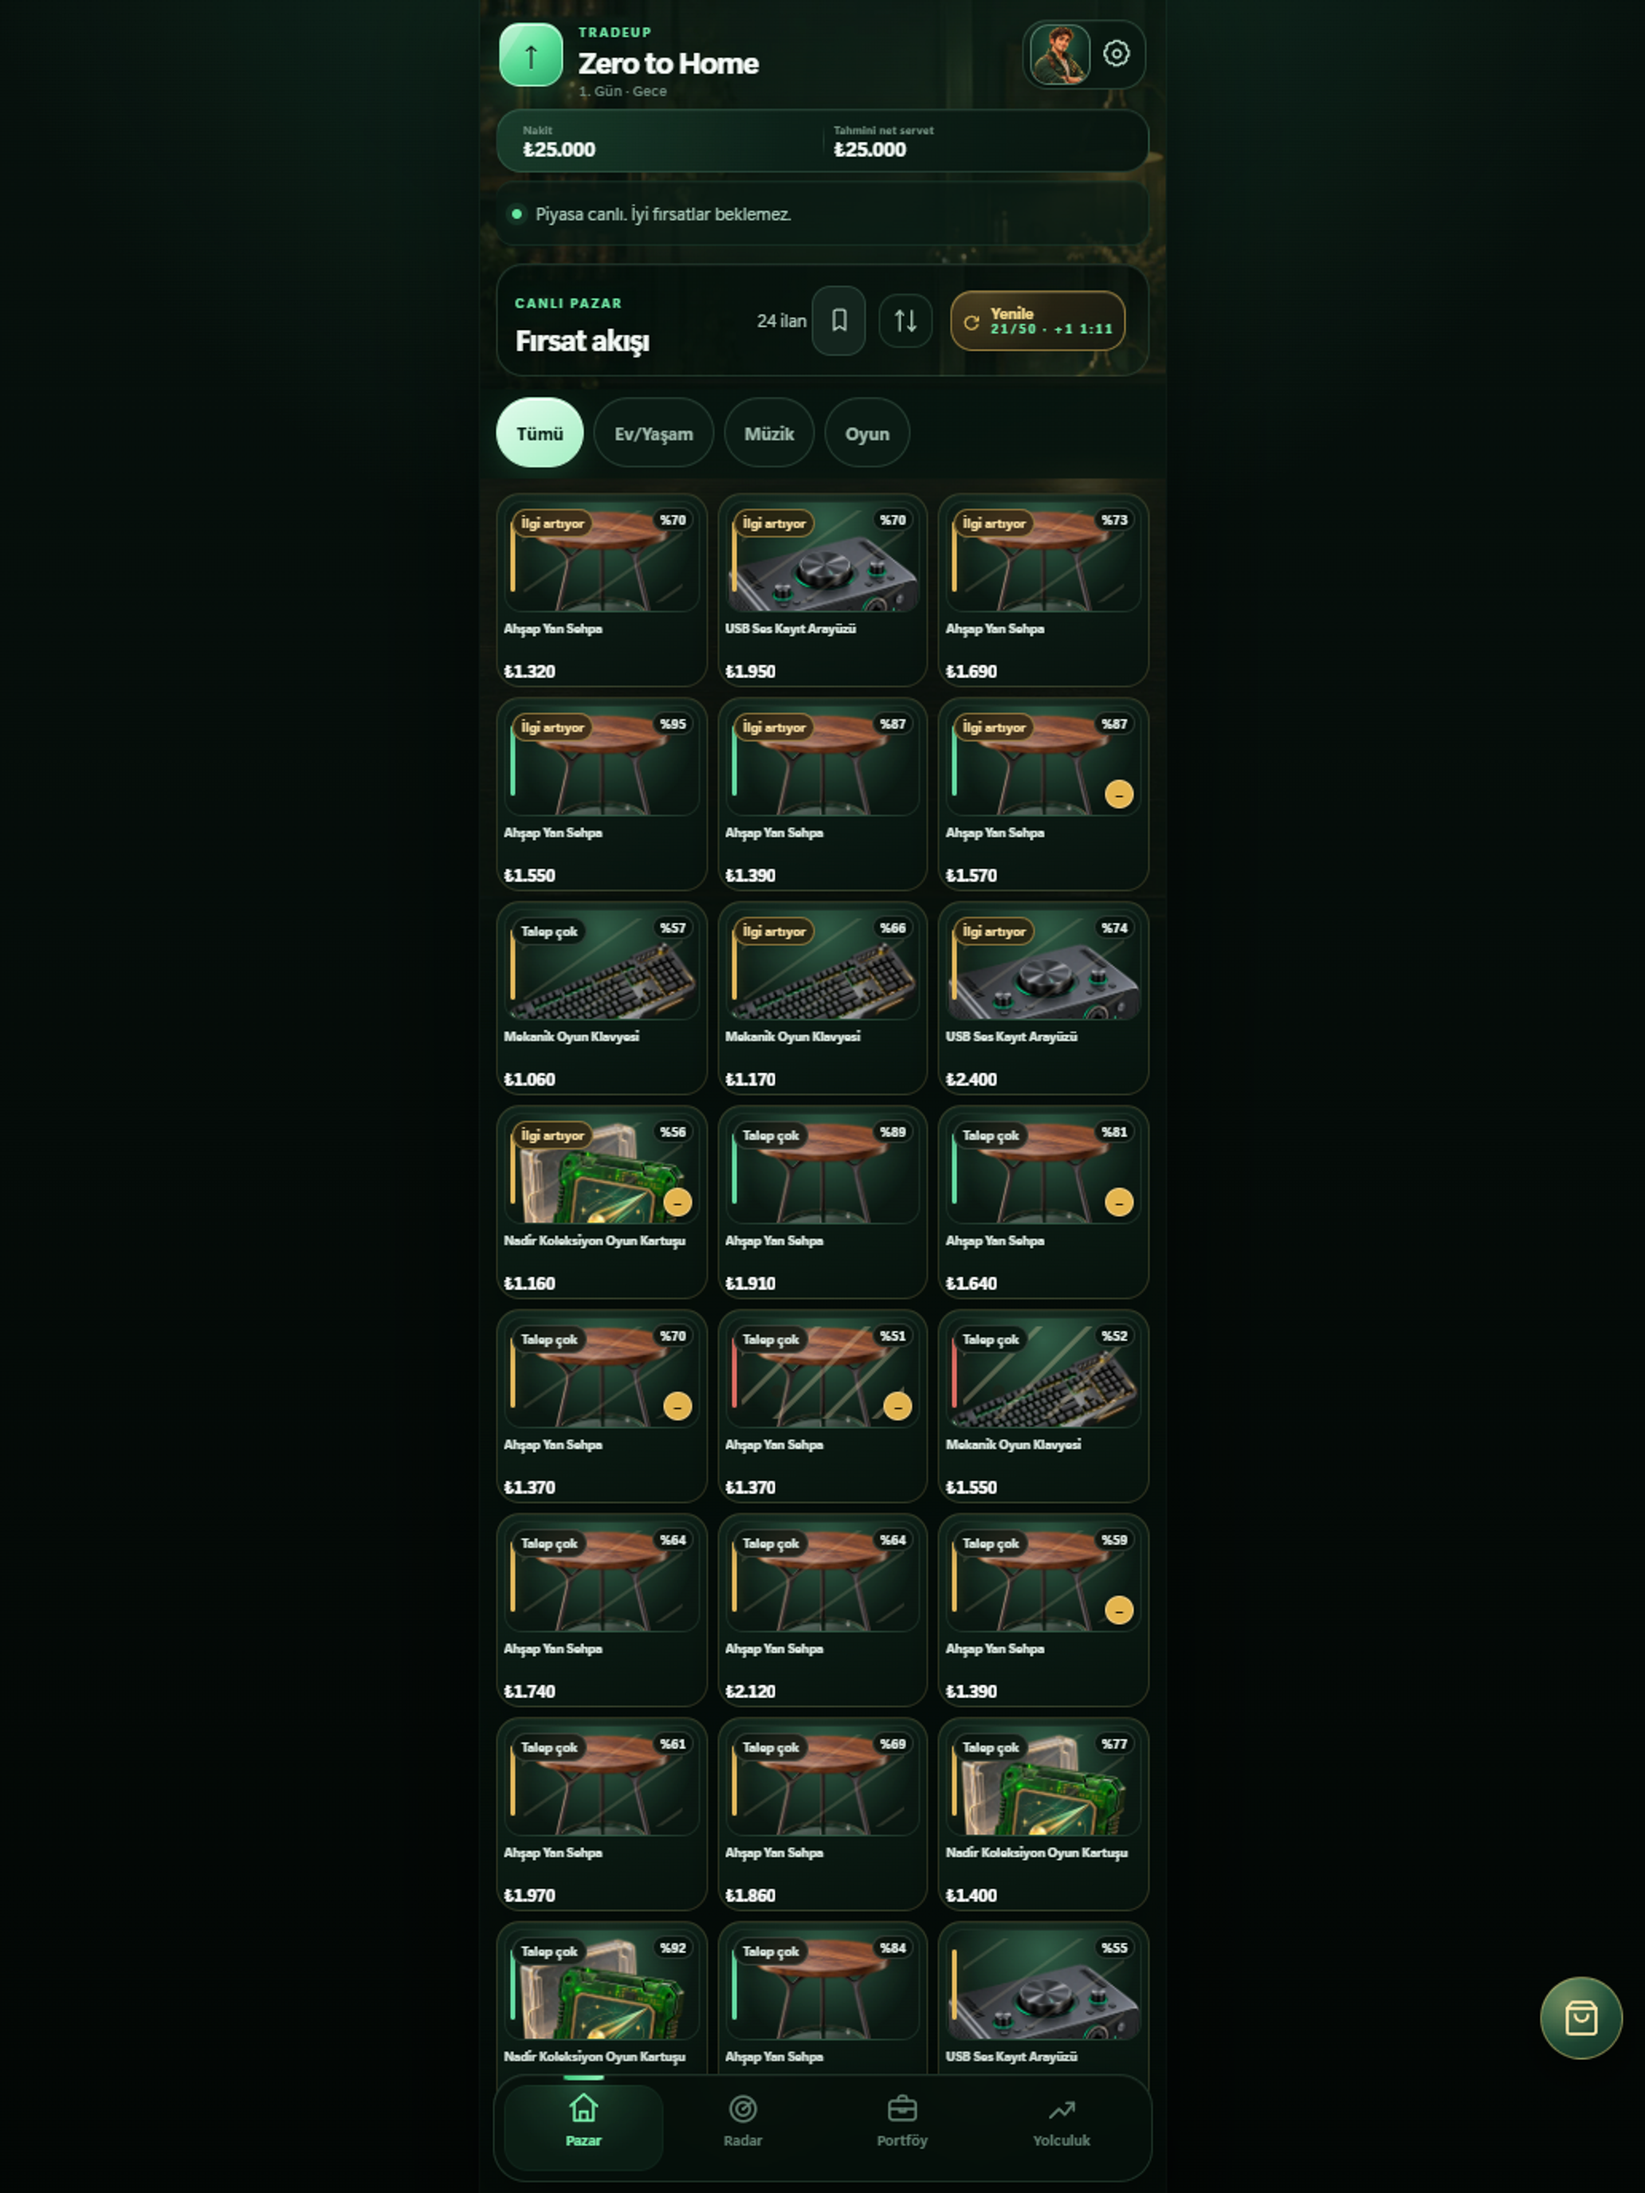
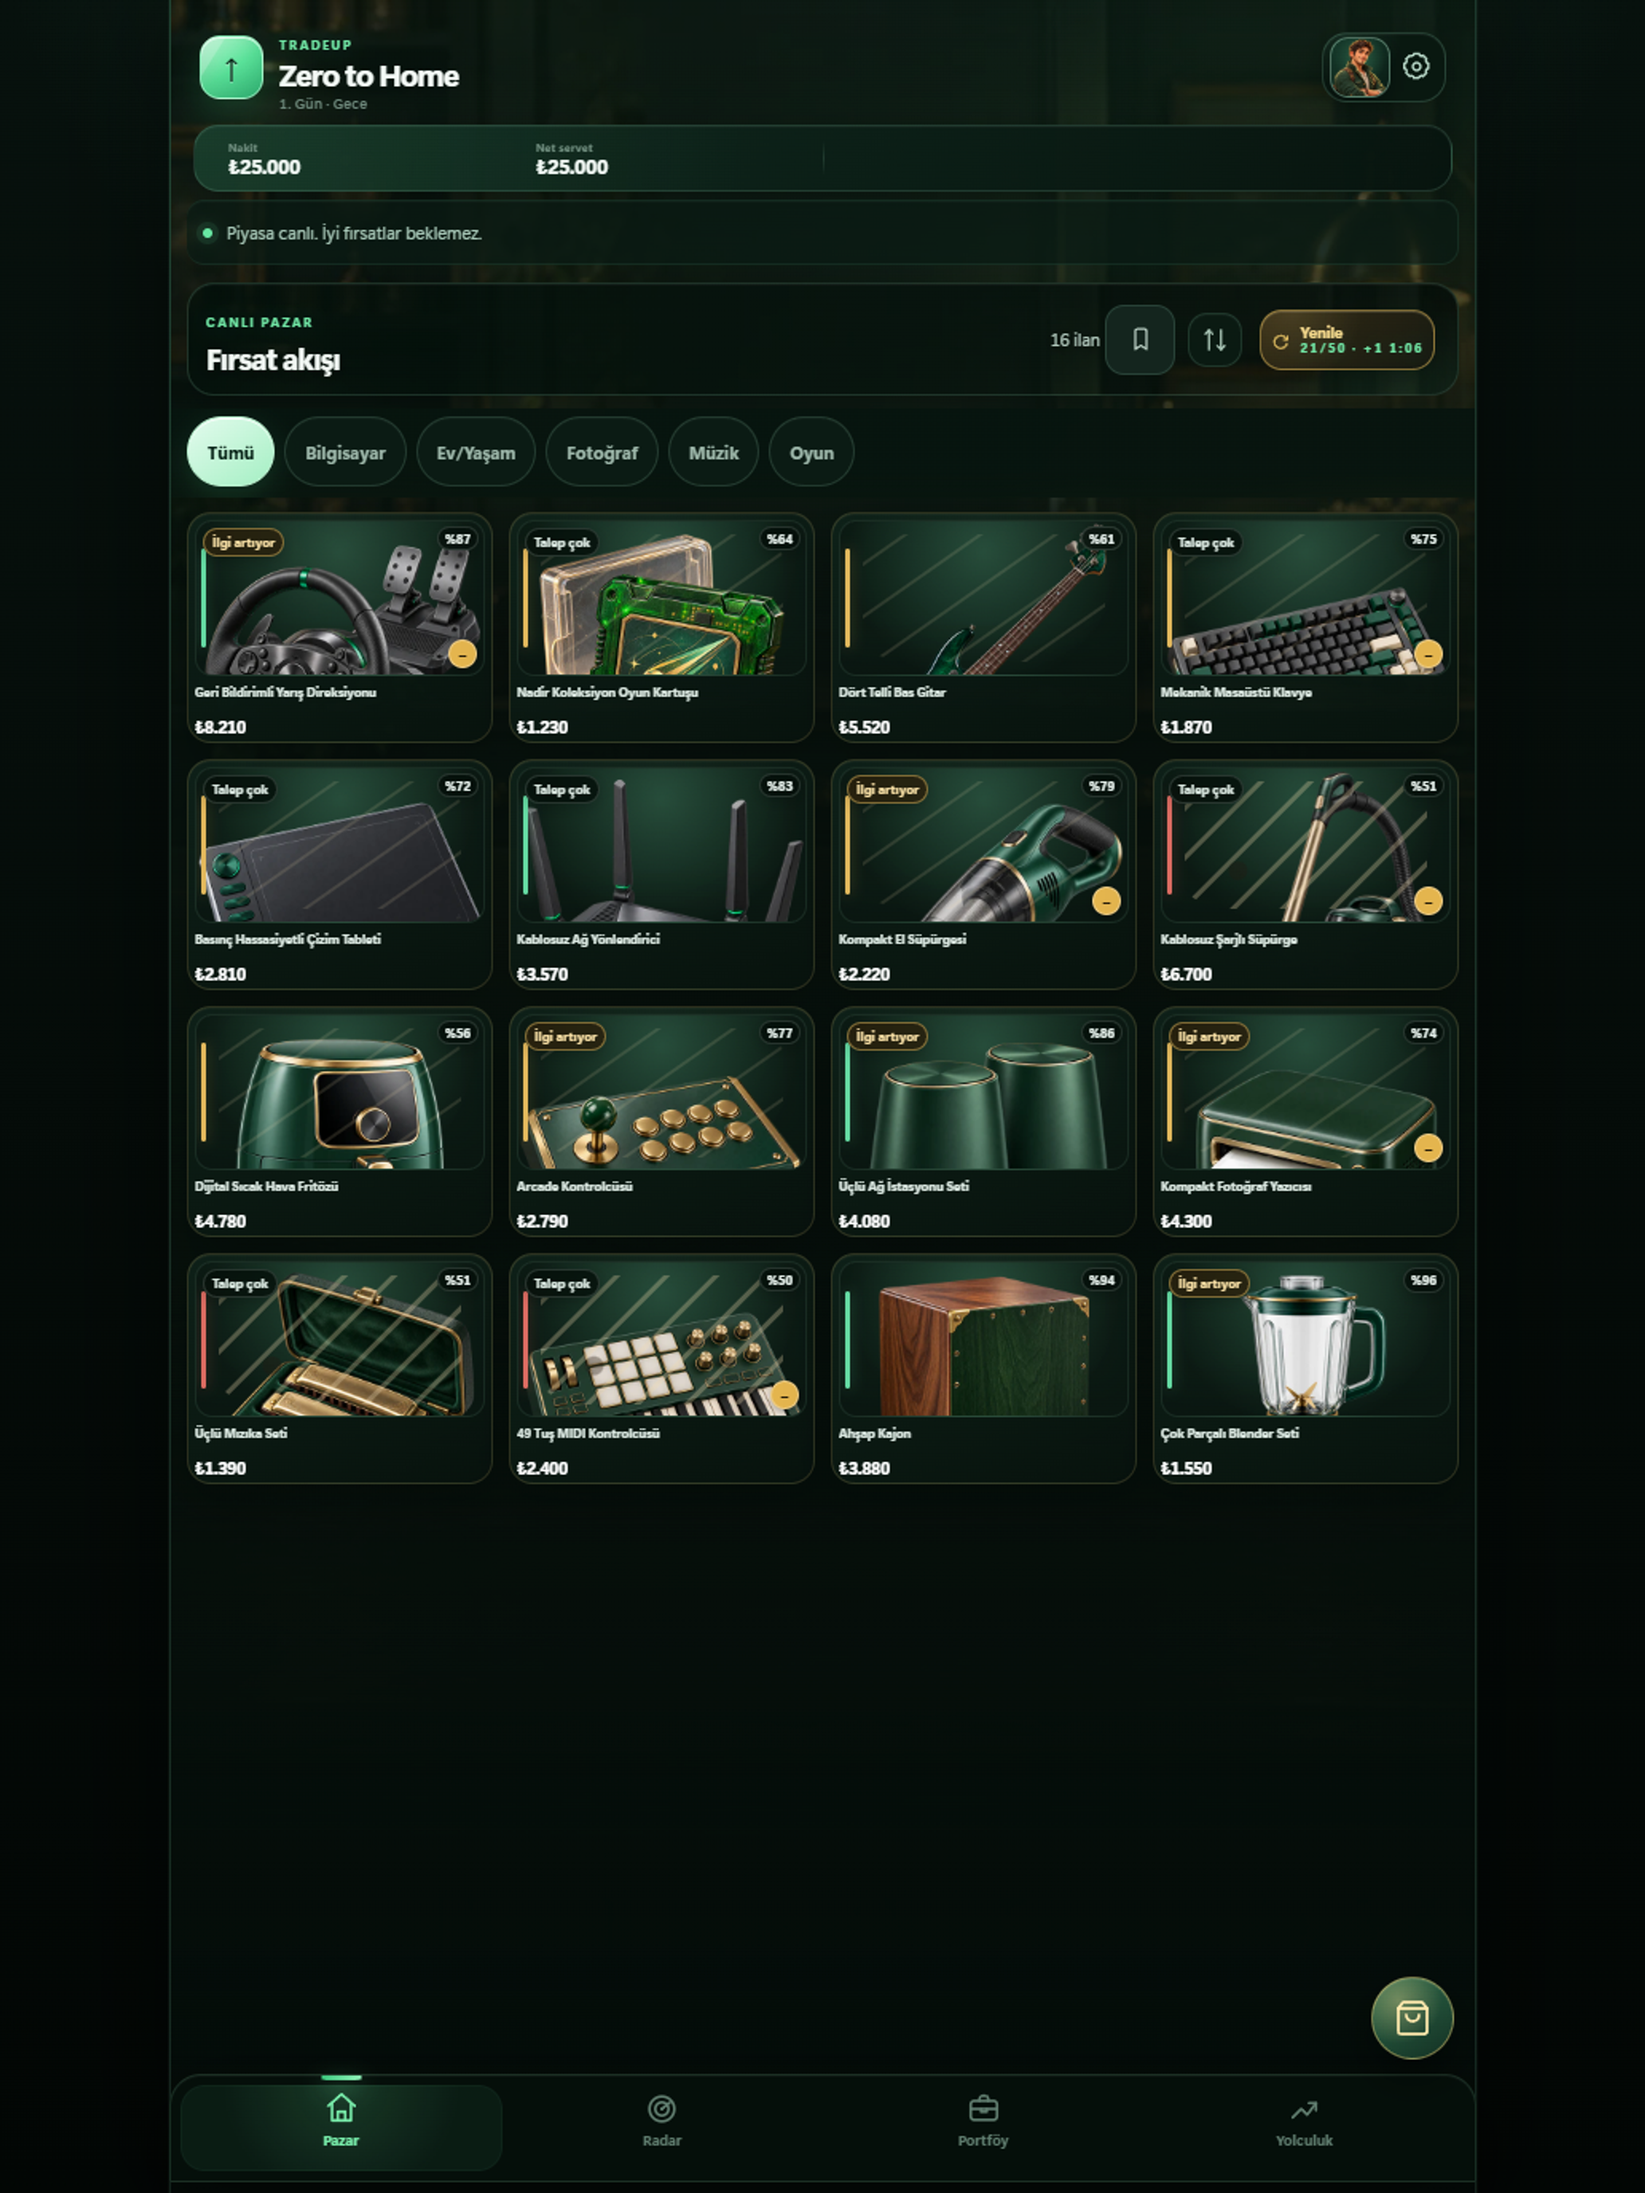
Polish market artwork scale and refresh App Store screenshots

diff --git a/e2e/storeAssets.e2e.ts b/e2e/storeAssets.e2e.ts
@@ -1,9 +1,9 @@
 import { expect, test, type Page } from "@playwright/test";
-import { mkdir } from "node:fs/promises";
+import { mkdir, writeFile } from "node:fs/promises";
 import path from "node:path";
 import sharp from "sharp";
 import { HOME_OPTIONS } from "../src/content/homes";
-import { initialState, validateState } from "../src/game";
+import { initialState, market as createMarket, validateState } from "../src/game";
 import type { GameState } from "../src/domain/models";
 import { completeFirstLaunch } from "./helpers";
 
@@ -13,6 +13,19 @@ test.skip(
 );
 
 const outputDirectory = path.resolve("store-assets/ios/iphone-6.5");
+
+async function writeGeneratedAsset(targetPath: string, image: Buffer) {
+  for (let attempt = 0; attempt < 5; attempt += 1) {
+    try {
+      await writeFile(targetPath, image);
+      return;
+    } catch (error) {
+      if (attempt === 4) throw error;
+      // Windows scanners occasionally hold an existing screenshot briefly.
+      await new Promise((resolve) => setTimeout(resolve, 150 * (attempt + 1)));
+    }
+  }
+}
 
 async function persistGame(page: Page, state: GameState) {
   await page.evaluate(async (game) => {
@@ -32,14 +45,19 @@ async function persistGame(page: Page, state: GameState) {
 }
 
 async function capture(page: Page, name: string, temporaryPath: string) {
+  await page.evaluate(() => {
+    window.scrollTo(0, 0);
+    document.querySelector("main")?.scrollTo(0, 0);
+  });
   await page.screenshot({ path: temporaryPath, animations: "disabled" });
   const targetPath = path.join(outputDirectory, `${name}.png`);
-  await sharp(temporaryPath)
+  const image = await sharp(temporaryPath)
     .resize(1284, 2778, { fit: "fill" })
     .png({ compressionLevel: 9 })
-    .toFile(targetPath);
-  const metadata = await sharp(targetPath).metadata();
+    .toBuffer();
+  const metadata = await sharp(image).metadata();
   expect([metadata.width, metadata.height]).toEqual([1284, 2778]);
+  await writeGeneratedAsset(targetPath, image);
 }
 
 test("generate App Store screenshots for TradeUp", async ({
@@ -75,6 +93,19 @@ test("generate App Store screenshots for TradeUp", async ({
   };
   market.monetization.marketScanCredits = 21;
   market.monetization.marketScanRefillAnchorWallMs = now.getTime();
+  // Capture a reachable later-session market with varied arrivals, not the
+  // same initial cohort repeated across most of the product page.
+  const seenFamilies = new Set<string>();
+  market.listings = Array.from({ length: 48 }, (_, index) =>
+    createMarket(market.seed + index * 37, market.cashMinor, index, 0, 4),
+  )
+    .flat()
+    .filter((listing) => {
+      if (seenFamilies.has(listing.familyId)) return false;
+      seenFamilies.add(listing.familyId);
+      return true;
+    })
+    .slice(0, 16);
   await persistGame(page, market);
   await page.reload();
   await expect(
@@ -86,13 +117,14 @@ test("generate App Store screenshots for TradeUp", async ({
   await mkdir(path.resolve("store-assets/ios/ipad-13"), { recursive: true });
   const iPadSource = testInfo.outputPath("ipad-market.png");
   await page.screenshot({ path: iPadSource, animations: "disabled" });
-  await sharp(iPadSource)
+  const iPadImage = await sharp(iPadSource)
     .resize(2064, 2752, { fit: "fill" })
     .png({ compressionLevel: 9 })
-    .toFile(path.resolve("store-assets/ios/ipad-13/01-canli-pazar.png"));
+    .toBuffer();
+  await writeGeneratedAsset(path.resolve("store-assets/ios/ipad-13/01-canli-pazar.png"), iPadImage);
   await page.setViewportSize({ width: 428, height: 926 });
 
-  await page.getByRole("button", { name: "Satın Almalar ve Görünüm" }).click();
+  await page.getByRole("button", { name: "Satın almalar & görünüm" }).click();
   await expect(page.getByText("TradeUp Premium", { exact: false })).toBeVisible();
   await capture(page, "06-premium-inceleme", testInfo.outputPath("premium.png"));
   await page.getByRole("button", { name: "Kapat", exact: true }).click();
@@ -104,11 +136,13 @@ test("generate App Store screenshots for TradeUp", async ({
   await capture(page, "03-urunu-incele", testInfo.outputPath("detail.png"));
   await page
     .getByRole("group", { name: "Satın alma adımları" })
-    .getByRole("button", { name: /^Hemen al/ })
+    .getByRole("button", { name: /^Hemen Satın Al/ })
     .click();
   await expect(
     page.getByRole("tab", { name: "Envanter", exact: true }),
   ).toHaveAttribute("aria-selected", "true");
+  await page.getByRole("button", { name: "Vitrine Ekle", exact: true }).click();
+  await expect(page.getByText("1 / 3")).toBeVisible();
   await capture(
     page,
     "04-portfoyunu-buyut",

diff --git a/e2e/marketGrid.e2e.ts b/e2e/marketGrid.e2e.ts
@@ -91,6 +91,7 @@ for (const width of [320, 430]) {
       .first()
       .locator(".product-art")
       .boundingBox();
+    expect(firstVisual?.height).toBeGreaterThanOrEqual(68);
     const firstSignals = await cards
       .first()
       .locator(".market-condition-signal")

diff --git a/src/App.css b/src/App.css
@@ -1004,7 +1004,7 @@ main {
 }
 .market-grid .product-art {
   width: 100%;
-  height: clamp(58px, 17vw, 70px);
+  height: clamp(68px, 20vw, 82px);
   aspect-ratio: auto;
   flex: 0 0 auto;
   border-radius: 9px;

diff --git a/docs/IOS_RELEASE_READINESS.md b/docs/IOS_RELEASE_READINESS.md
@@ -2,13 +2,15 @@
 
 ## 27 Eylül 2026 güncel durum
 
-- Yerel kalite kapısı: 384 birim testi, lint, production build ve tam Playwright taraması (37 başarılı, 1 isteğe bağlı görsel üretimi atlandı) geçti. Rehberli ilk satın alma akışını bekleyen eski testler, güncel serbest pazar ve 50 erken oyun tarama kuralına göre yenilendi.
+- Yerel kalite kapısı: 385 birim testi, lint, production build ve tam Playwright taraması (37 başarılı, 1 isteğe bağlı görsel üretimi atlandı) geçti. 320 ve 430 pikselde büyütülen ürün görselleriyle 3×3 pazar düzeni doğrulandı. Rehberli ilk satın alma akışını bekleyen eski testler, güncel serbest pazar ve 50 erken oyun tarama kuralına göre yenilendi.
 - App Store Connect'te iOS 1.0.1 **(35)** TestFlight build'i işlenmiş, **Ready to Submit** ve Betatest grubuna bağlı (3 testçi). Ancak mevcut reddedilmiş 1.0.1 dağıtım başvurusu hâlâ eski build **14**'e bağlı; 35 App Review'a gönderilmedi. Önceki red, iPad Air 11 inçte cihaz uyumluluğuydu; yeni build iPhone hedefli.
 - Altı GDD v2.2 kalıcı IAP kaydı mevcut. Premium **Ready for Review**, diğer beşi **Prepare for Submission**. ABD taban fiyatları tek tek doğrulandı: Premium $4.99; Reklamsız, Gece Pazarı ve Atölye $1.99; Ev Stilleri ve Canlı Avatarlar $2.99. Reklamsız ürününün Türkçe mağaza metni ayarlandı. Ev Stilleri ve Canlı Avatarlar ürünlerinin eksik 175 bölge erişimi de tamamlandı; Atölye ve Gece Pazarı zaten tüm bölgelerde. Beş yeni üründe inceleme ekran görüntüsü yok; gerçek TestFlight satın alma/kozmetik ekranlarından alınmış görseller olmadan incelemeye hazır sayılmıyorlar.
 - App Privacy etiketi, build 34 IPA içindeki Google Mobile Ads ve User Messaging Platform `PrivacyInfo.xcprivacy` bildirimleriyle karşılaştırılıp **7 veri türü** (yaklaşık konum, cihaz kimliği, ürün etkileşimi, reklam verisi, çökme, performans, diğer tanılama) olarak 27 Eylül'de Apple'da yayımlandı. Cihaz kimliği SDK bildirimi uyarınca takip kapsamındadır. Ancak build 34 `Info.plist` içinde ATT açıklaması yok; gerçek cihazdaki takip izni ve reklam veri akışı doğrulanmadan bu build App Review'a sunulmamalı.
 - Takip izni için iOS açıklaması ve ilk reklamdan önce izin durumu denetimi build 35'e girdi; izin akışı hata verirse reklam atlanır, oyun/satış engellenmez. IPA'da açıklama anahtarı doğrulandı. Gerçek cihazda izin ekranı, reklam iptali ve satın alma smoke testi yine tamamlanmalıdır.
 - `privacy.html` ve `support.html` canlı HTTPS adresleri 27 Eylül'de dış ağdan HTTP 200 döndürdü. Bu erişim denetimi, gizlilik metni ile Apple veri beyanının içerik olarak uyumlu olduğu anlamına gelmez.
-- Mevcut App Review başvurusu unresolved/rejected durumunda; Apple bu başvuruya yeni IAP eklenmesine izin vermiyor. Mevcut başvuruyu build 34 ve Premium ile yeniden sunmak ya da mevcut başvuruyu sonlandırıp altı IAP hazırlandıktan sonra yeni başvuru açmak ayrı yayın kararı gerektirir. İki seçenekten hiçbiri henüz uygulanmadı; manuel yayın ayarı korunuyor.
+- Mevcut App Review başvurusu unresolved/rejected durumunda; Apple bu başvuruya yeni IAP eklenmesine izin vermiyor. Mevcut başvuruyu güncel TestFlight build'i ve Premium ile yeniden sunmak ya da mevcut başvuruyu sonlandırıp altı IAP hazırlandıktan sonra yeni başvuru açmak ayrı yayın kararı gerektirir. İki seçenekten hiçbiri henüz uygulanmadı; manuel yayın ayarı korunuyor.
+- [12 Ekim 2026 tarihli App Launch adaylığı](https://appstoreconnect.apple.com/apps/6811362281/distribution/nominations/edit/b68b21ef-11c6-442a-b317-aee75325d2a3), **Featuring Nominations → Submitted (1)** altında görünüyor (son güncelleme 23 Eylül). Bu Apple editörlerinin öne çıkarma değerlendirmesidir; App Review onayı, yayın randevusu veya 12 Ekim'de otomatik yayın taahhüdü değildir. Adaylıkta iPhone ile iPad birlikte seçili; güncel iPhone hedefli build ile iPad seçimi uyumsuz. “Helpful Details” metni `1TradeUp` yazım hatasıyla başlıyor. Bu alanlar Apple'da düzeltilene kadar açık takip maddesidir.
+- Mevcut 1.0.1 App Store sayfasında hâlâ dört eski 6.5 inç iPhone ekran görüntüsü ve build **14** bulunuyor. Güncel arayüzden üretilen beş açıklamalı 1284×2778 görsel [`store-assets/ios/iphone-6.5-story-v101/`](../store-assets/ios/iphone-6.5-story-v101/) konumunda hazırlandı; ilk üç kare pazar, portföy ve ev yolculuğunu gösteriyor. Bunlar henüz Apple'a yüklenmedi. 13 inç iPad görseli de yerelde güncellendi; iPad desteği kapalı kalacaksa App Store'a yüklenmesi gerekmiyor.
 
 ## Önceki tarihsel kayıtlar
 
